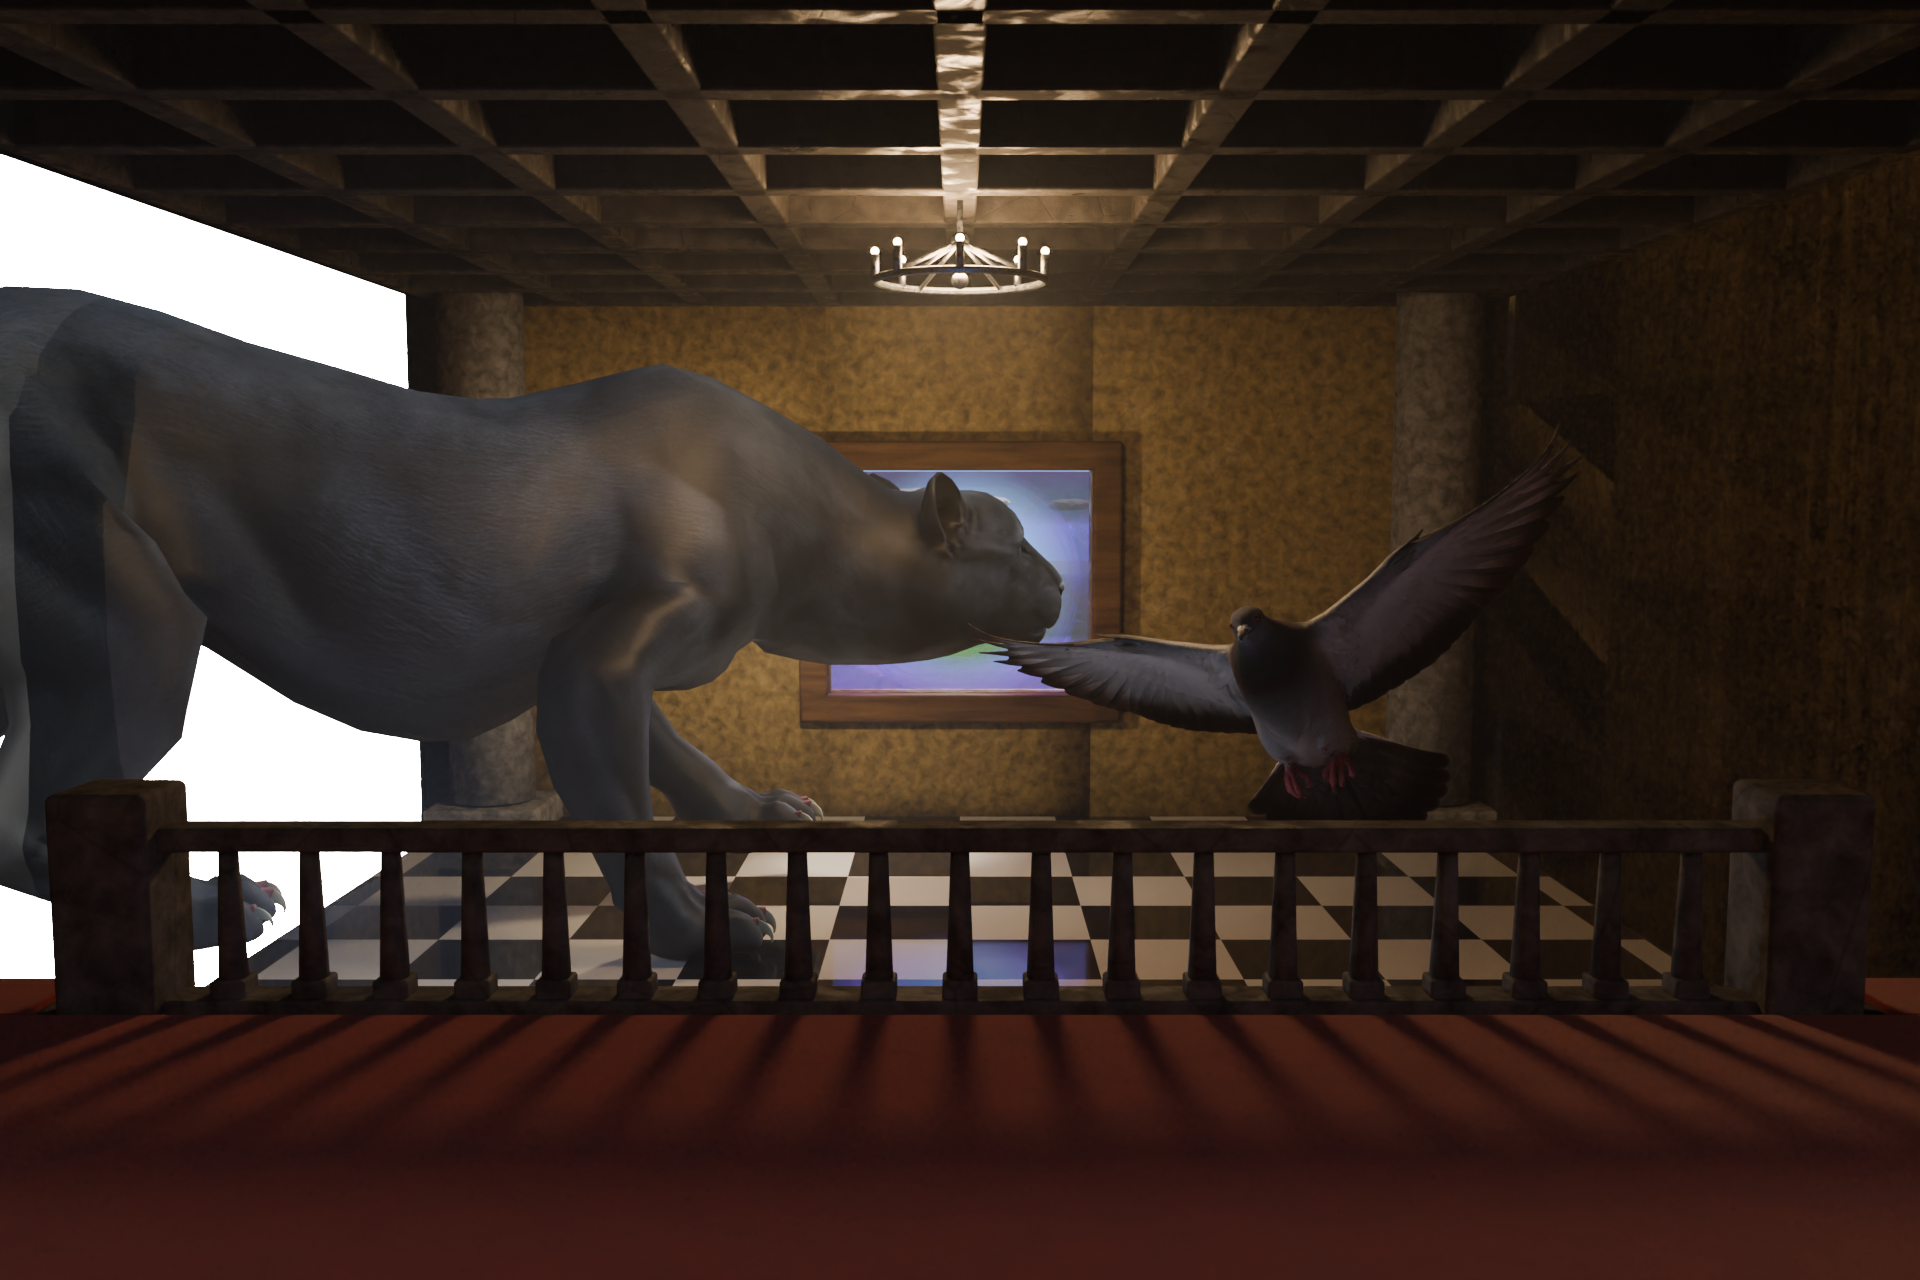
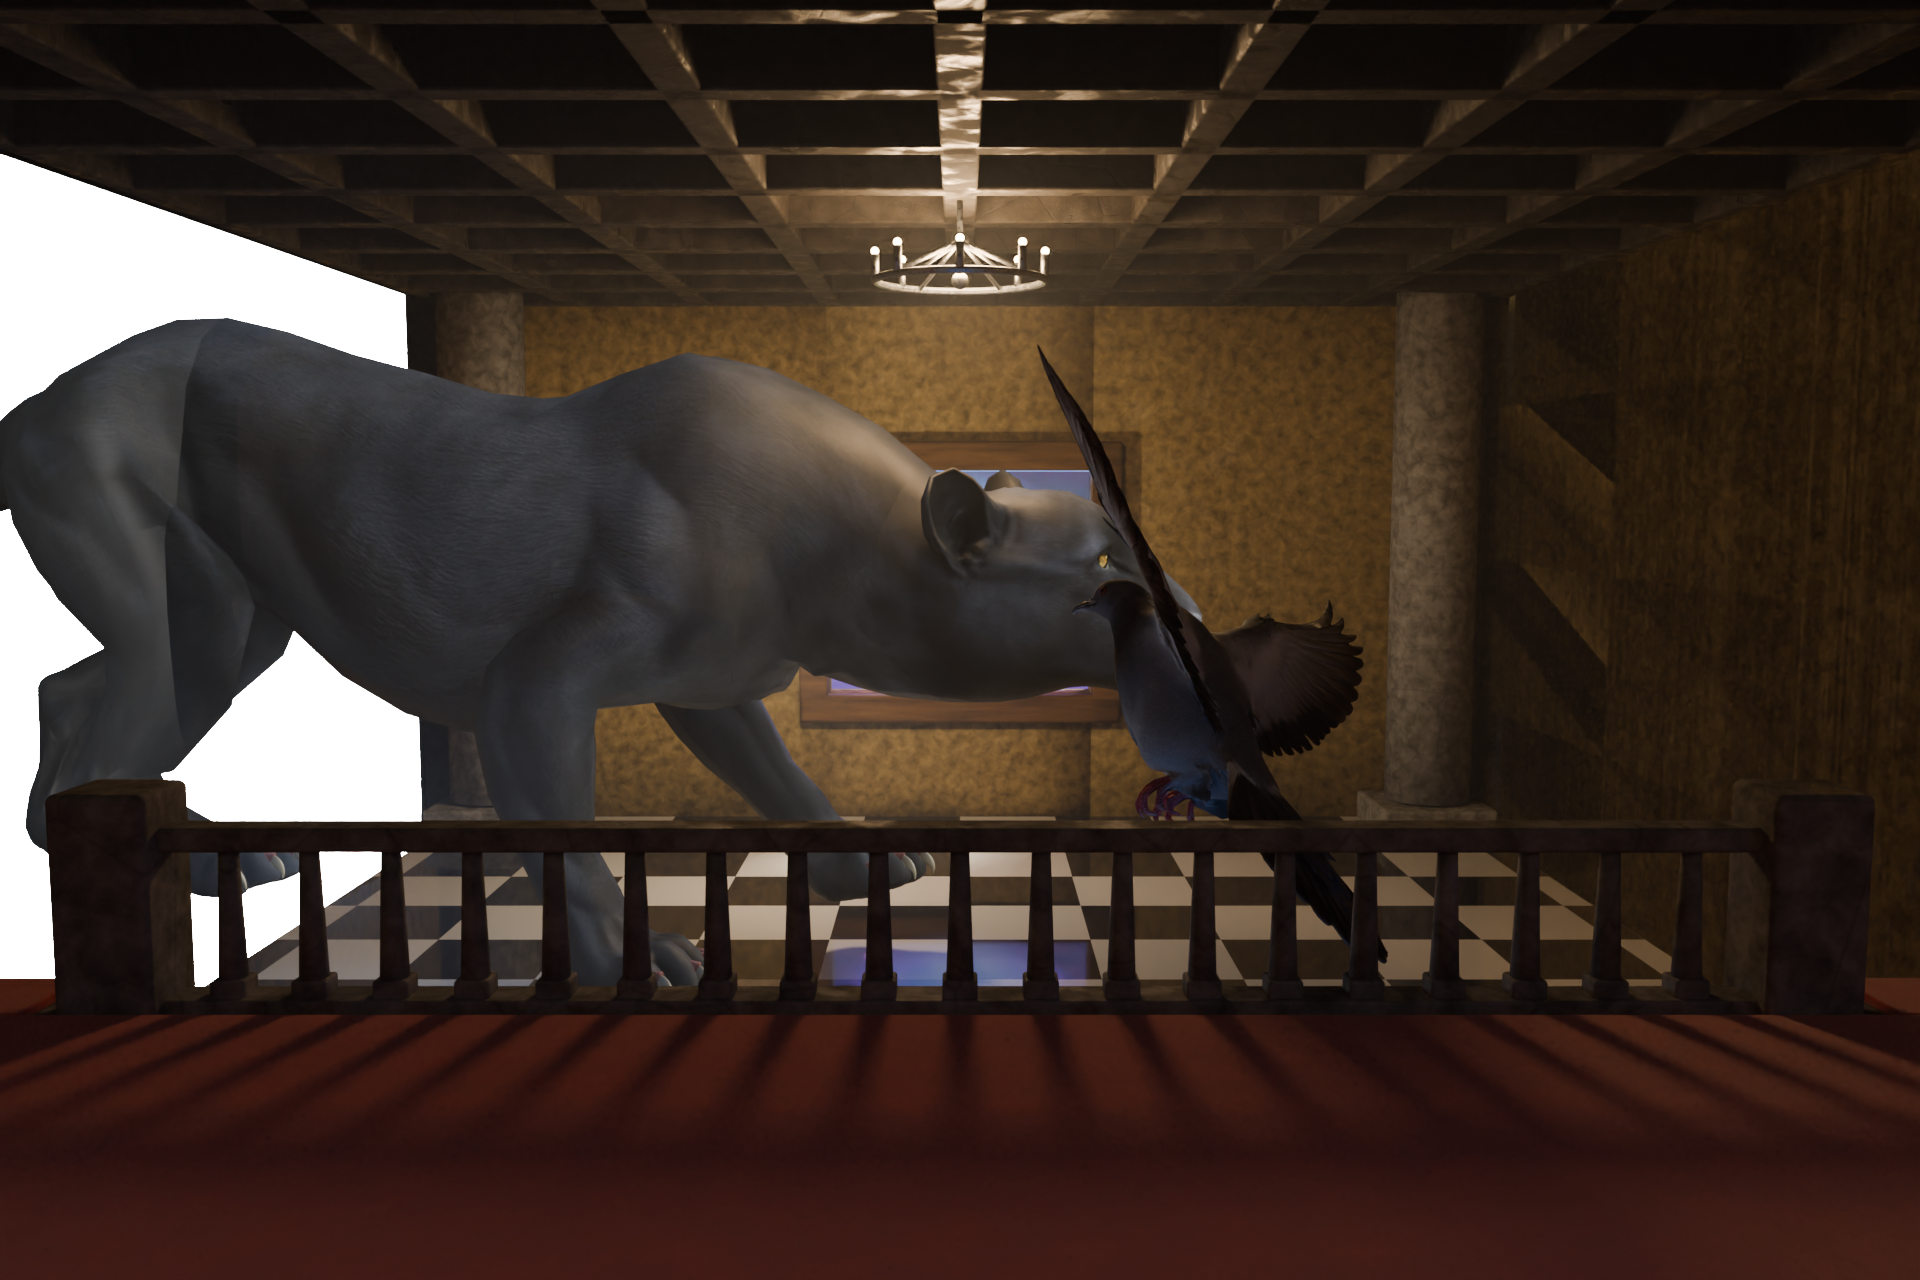
Both animals turned, and the bird aimed at the foot of the stairs
The cat swings from yaw 120 to 78, which takes the bearing from its head
bone to the top of the right-hand flight from 94 degrees off to 48. That
costs length: measured, 93 per cent of the body used to lie across the lens
and now 53 does, and the exchange rate is about eight per cent of the animal
per ten degrees of turn. Pointing it properly at the stairs would want yaw
30, where a quarter of the cat is visible and the rest is behind its own
shoulders. It also had to move back from y 13 to y 16, because turning the
body toward the camera swings the far half down into the left staircase.

The bird now flies at the far flight, and at the bottom of it rather than
the top. That distinction is the whole of the second render: aimed at the
head of those stairs it crosses the frame square on, so its wings point
straight down the lens axis and collapse, leaving only nineteen degrees of
bank standing up in the projection -- a dark blade with a tail on it. Aimed
at the foot it goes left and away instead, which is the same instruction to
anyone looking at the picture and 99 per cent of the wingspan to the camera
instead of 56.

One heading for both cameras now rather than one each, because where the
bird is going is a fact about the room. It is at (2.0, 4.0, 5.0) and 6 m
across, which is what is left once the cat has taken its room: 5.1 m clear
of the nearest whisker and clear of the rail, the landing and both flights.

diff --git a/art/blender/scenes.py b/art/blender/scenes.py
@@ -2560,20 +2560,28 @@ def painted_hall(path, mood="noon", view="balcony", cutaway=False):
     # than +27 on the stair one: still toward the lens, but angled off
     # toward the far flight so the bird is going somewhere rather than
     # posing.
-    # In the cutaway it moves forward and down and comes in to 7.5 m, and
-    # all three are the cat's doing. Searched over four hundred positions
-    # and three sizes: at 11.2 m there is nowhere left in the room that
-    # clears the animal by even a metre, and at any real height the wings
-    # run into a back that is nine metres off the floor. The clear air is in
-    # front of it. At (4.0, 11.0, 4.2) the bird stands 4.2 m off the nearest
-    # point of the cat and crosses the frame right by its face -- which is a
-    # better picture than the one I was aiming for anyway, because a bird
-    # that has not noticed is worth more than a bird that has.
+    # In the cutaway it flies at the far staircase, and everything else
+    # about it follows from that plus the cat.
     #
-    # And the smaller bird is not a loss. The point of this variant is how
-    # big the cat is, and nothing says that like a seven-metre pigeon
-    # looking ordinary next to it.
-    perch, wingspan = (((4.0, 11.0, 4.2), 7.5) if cutaway
+    # It flies at the foot of the far flight rather than the head of it,
+    # and that is the difference between a bird and a blade.
+    #
+    # Aim at the top of those stairs and the bird crosses the frame square
+    # on -- which means its wings point straight down the lens axis and
+    # collapse to nothing, leaving only the nineteen degrees of bank
+    # standing up in the projection. The first render of it looked like a
+    # dark blade with a tail. Aiming at the bottom of the same staircase is
+    # the same instruction to a viewer and a completely different picture to
+    # a camera: the bird goes left *and away*, and 99% of the wingspan comes
+    # back across the frame instead of 56%.
+    #
+    # Position and size are what is left once the cat has taken its room.
+    # After the turn the animal occupies y 11.5 to 18.6 across the whole
+    # width, so the clear air is all in front of it. At (2.0, 4.0, 5.0) and
+    # 6 m across the bird stands 5.1 m off the cat, clear of the rail, the
+    # landing and both flights, and crosses low and near while the cat comes
+    # on behind it.
+    perch, wingspan = (((2.0, 4.0, 5.0), 6.0) if cutaway
                        else ((-3.3, 15.2, 6.10), 11.2))
     # Square on, outside the cutaway, and that is a decision rather than the
     # old code with the numbers taken out.
@@ -2587,8 +2595,11 @@ def painted_hall(path, mood="noon", view="balcony", cutaway=False):
     # side-on, silently changing nine renders nobody asked to change. So the
     # approved framing is written down as what it actually is. The headings
     # are one number away whenever they are wanted.
-    tilt = ((math.radians(-9.0), math.radians(-19.0),
-             math.radians(10.0 if view == "stair" else -25.0))
+    # One heading, not one per camera. Where the bird is going is a fact
+    # about the room rather than about the lens, and both cameras are
+    # looking at the same moment of it. -121.9 is the bearing from where it
+    # is to the bottom of the far staircase.
+    tilt = ((math.radians(-9.0), math.radians(-19.0), math.radians(-121.9))
             if cutaway else (0.0, 0.0, 0.0))
     borrowed("pigeon", perch, wingspan, rotation=tilt, name="Pigeon")
 
@@ -2645,26 +2656,33 @@ def painted_hall(path, mood="noon", view="balcony", cutaway=False):
         # ceiling beams whose undersides are at 10.07 -- so it clears by a
         # metre, and span 28 does not clear at all. 26.8 m nose to tail.
         #
-        # Yaw 120, which puts the head along (+0.87, +0.50): into the room,
-        # and 21 degrees off square to the stair lens -- near enough
-        # broadside to read the whole animal, far enough off it to be a
-        # three-quarter view rather than a diagram.
+        # Yaw 78, head along (+0.98, -0.21): into the room and turned down
+        # toward the right-hand flight, which is where the stair lens is
+        # standing.
         #
-        # Twice I decided this number was wrong from looking at a render,
-        # and twice the render was showing a cat whose rotation had been
-        # dropped on the floor by the quaternion bug in `borrowed`. The
-        # heading was right from the start; nothing was applying it. What
-        # settles it is not a picture but the rig: `Bip001 Head` lands at
-        # (1.4, 19.1) and `Bip001 Pelvis` at (-11.9, 11.4), so the animal is
-        # walking in.
+        # It cannot point straight at the stairs, and it is worth writing
+        # down why rather than trying again. Turning the animal toward the
+        # camera costs its length: measured off the rig, the head bone at
+        # yaw 120 sat 94 degrees off the bearing to the top of the right
+        # flight with 93 per cent of the body across the lens, and every ten
+        # degrees of turn buys about ten degrees of bearing and spends about
+        # eight per cent of the length. Pointing it properly at the stairs
+        # means around yaw 30, where a quarter of the cat is visible and the
+        # rest is behind its own shoulders.
+        #
+        # 78 is the trade: 48 degrees off the flight instead of 94, with 53
+        # per cent of the body still reading. And the depth had to come back
+        # with it -- at y 16 rather than 13, because turning the body toward
+        # the camera swings the far half down into the left staircase, and a
+        # paw through a stair tread is worse than a few degrees of heading.
         #
         # The root sits where it does because the midpoint of nose and tail
         # was solved onto the wall plane at x -10 -- which is what "half in,
         # half out" means for something that is not a cylinder. Head,
         # shoulders and forelegs in the room; hindquarters and tail still in
-        # the white.
-        borrowed("panther", (-10.59, 13.00, 0.91), 25.0,
-                 rotation=(0.0, 0.0, math.radians(120.0)),
+        # the white, and the tail tip stopping 0.97 m in front of the panel.
+        borrowed("panther", (-10.24, 16.00, 0.91), 25.0,
+                 rotation=(0.0, 0.0, math.radians(78.0)),
                  frame=247, name="Panther")
     else:
         # Unrotated, for the same reason as the bird above: this is the
